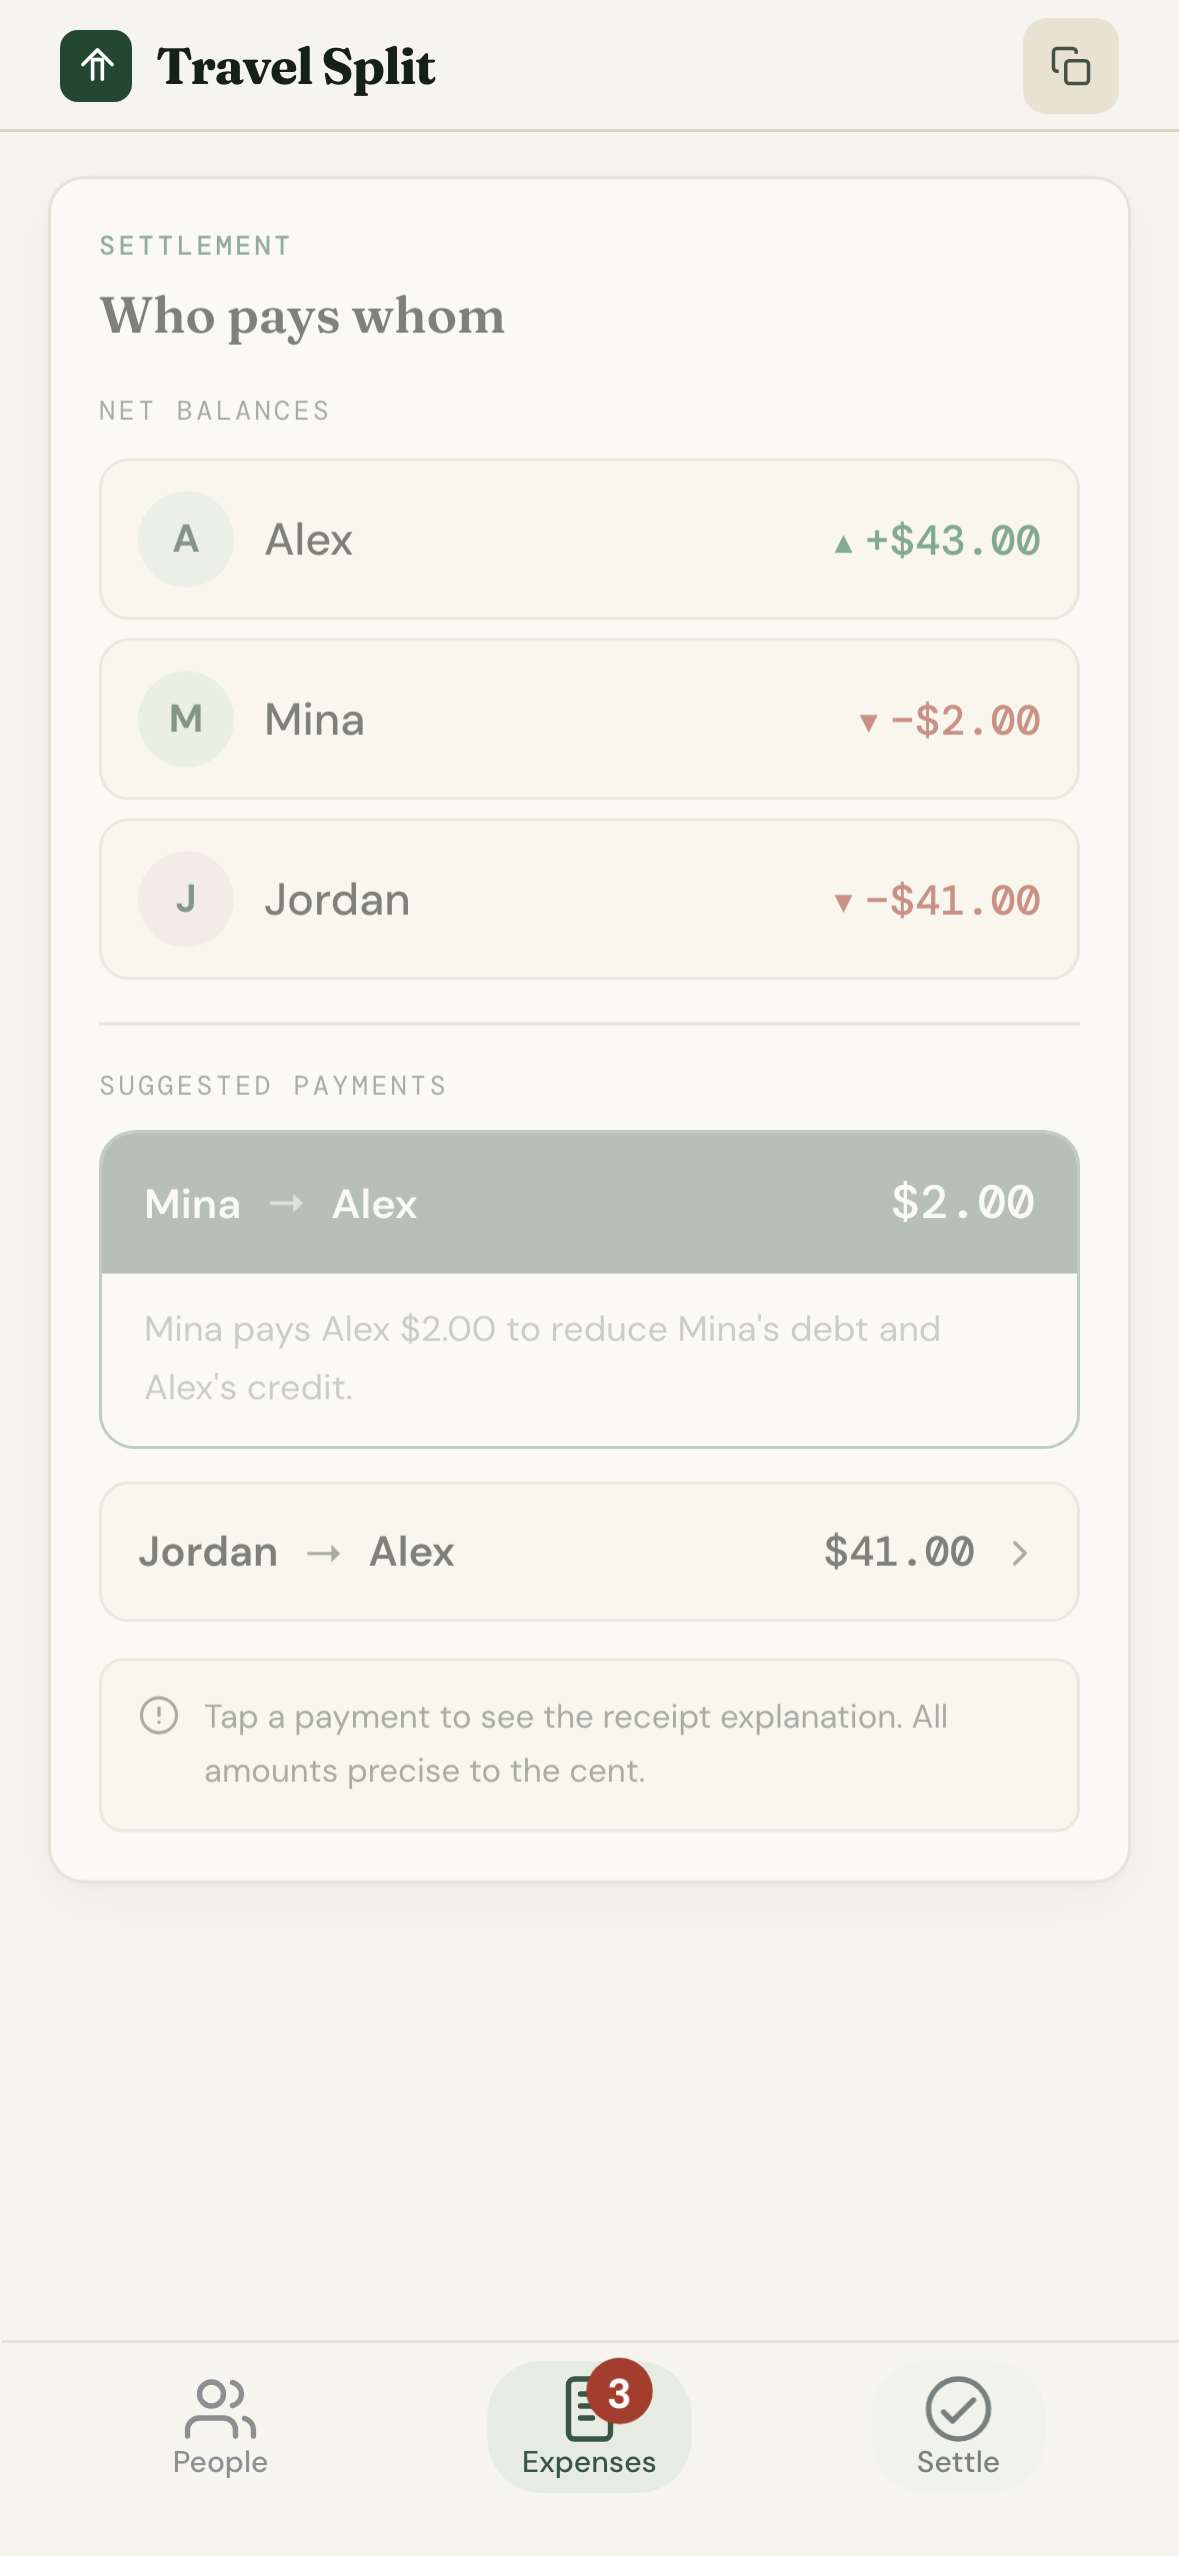
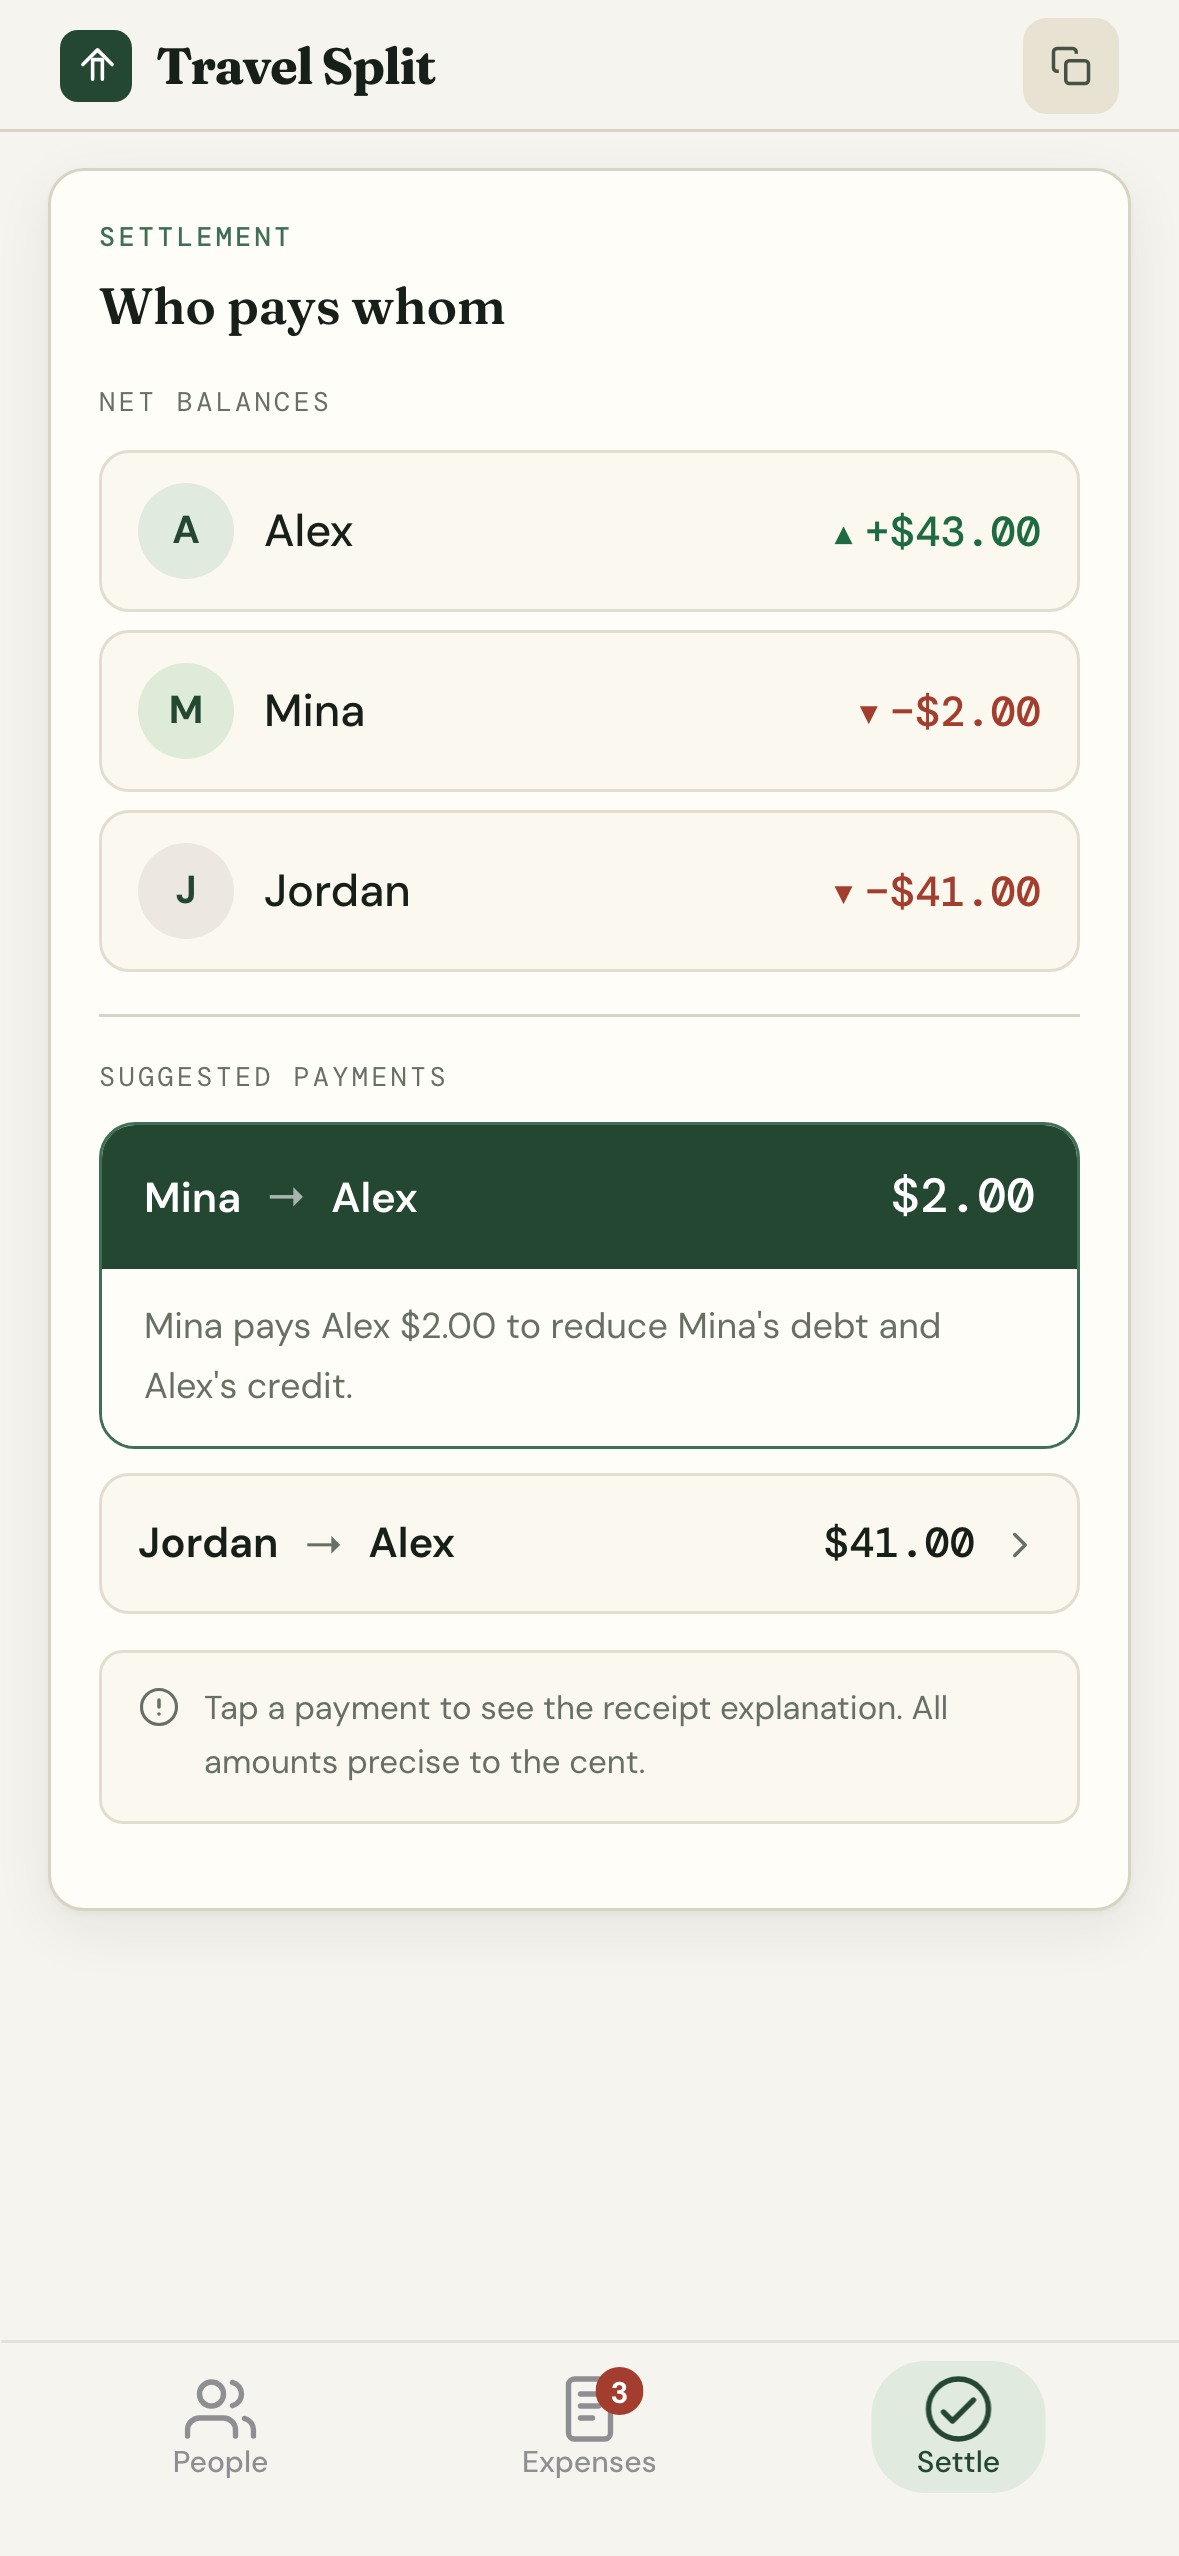
docs: refresh README and screenshots for current UI

diff --git a/README.md b/README.md
@@ -54,9 +54,12 @@ The Settle tab turns the ledger into an action list: each traveler has a clear n
 
 - **Add people** — build the trip group quickly with local names.
 - **Record expenses** — enter an activity, amount, payer, and split participants.
+- **Edit and delete expenses** — revise any saved expense in place; remove people who aren't tied to an expense.
 - **Equal and weighted splits** — default to equal splits, with support for custom weights.
 - **Settlement suggestions** — calculate who should pay whom to settle balances.
 - **Receipt-style explanations** — show why each suggested payment exists.
+- **Scoped validation** — each panel shows only its own validation errors, styled distinctly from neutral disclaimers.
+- **Trip notifications** — a single banner surfaces global state (new trip ready, storage recovered) without crowding panel content.
 - **Local persistence** — save the active trip in the browser using IndexedDB.
 - **Responsive layouts** — use a mobile tab layout below 980px and a desktop three-column workspace at wider widths.
 - **Private by default** — trip data stays in the browser; there is no server-side storage.
@@ -85,6 +88,7 @@ flowchart LR
   Reducer --> Domain[Domain logic]
   Domain --> Money[Integer-cent money math]
   Domain --> Split[Split + settlement engine]
+  Domain --> Errors[Validation messages + source mapping]
   Provider --> Repo[TripRepository]
   Repo --> IDB[(IndexedDB snapshot)]
 
@@ -169,4 +173,4 @@ If verification fails, the previous successful GitHub Pages deployment remains l
 
 ## Current status
 
-Travel Split is deployed as a working static web app and validated on both desktop and mobile layouts.
+Travel Split is deployed on GitHub Pages with desktop and mobile layouts, scoped validation messaging, a trip-level notification banner, and IndexedDB persistence. Vitest covers the domain layer (money math, splitting, reducers, error mapping); Playwright drives the People → Expenses → Settle flow end-to-end.
